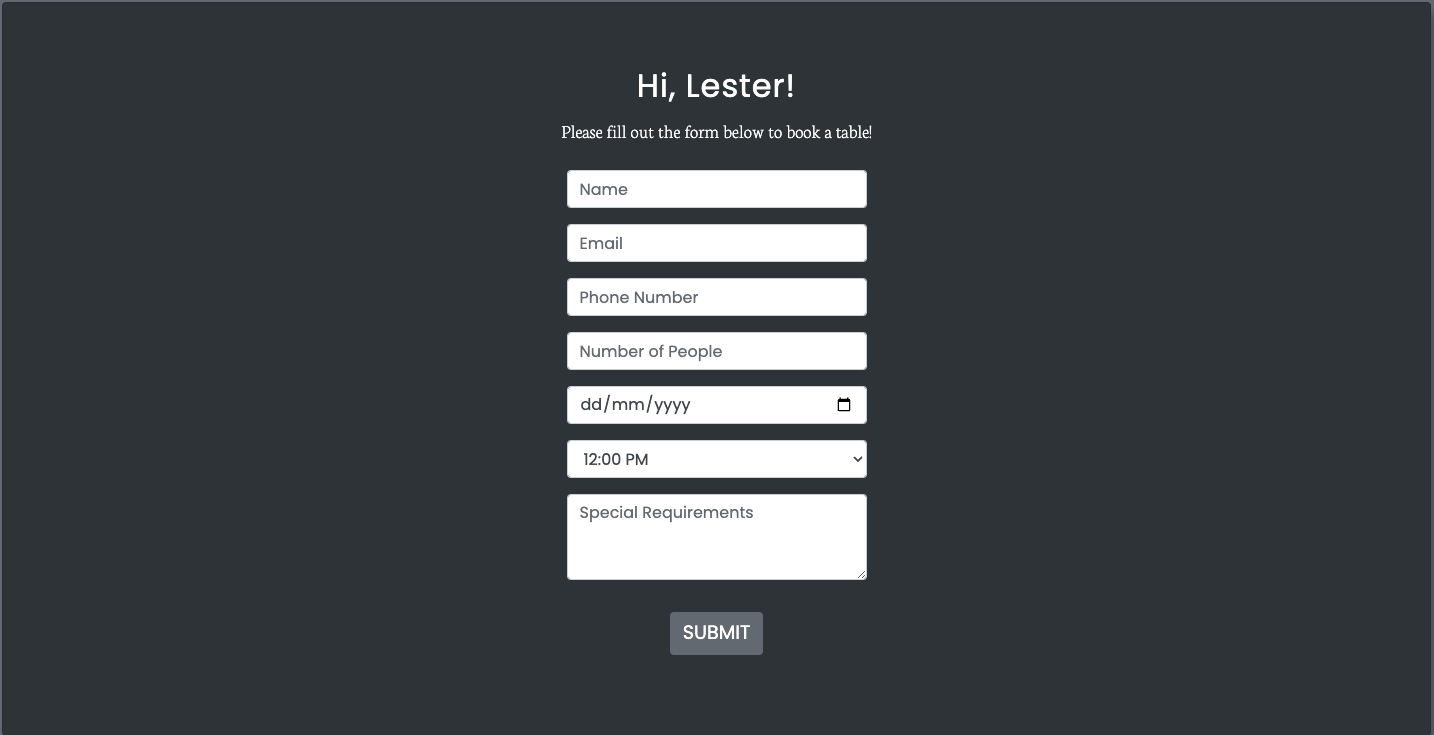
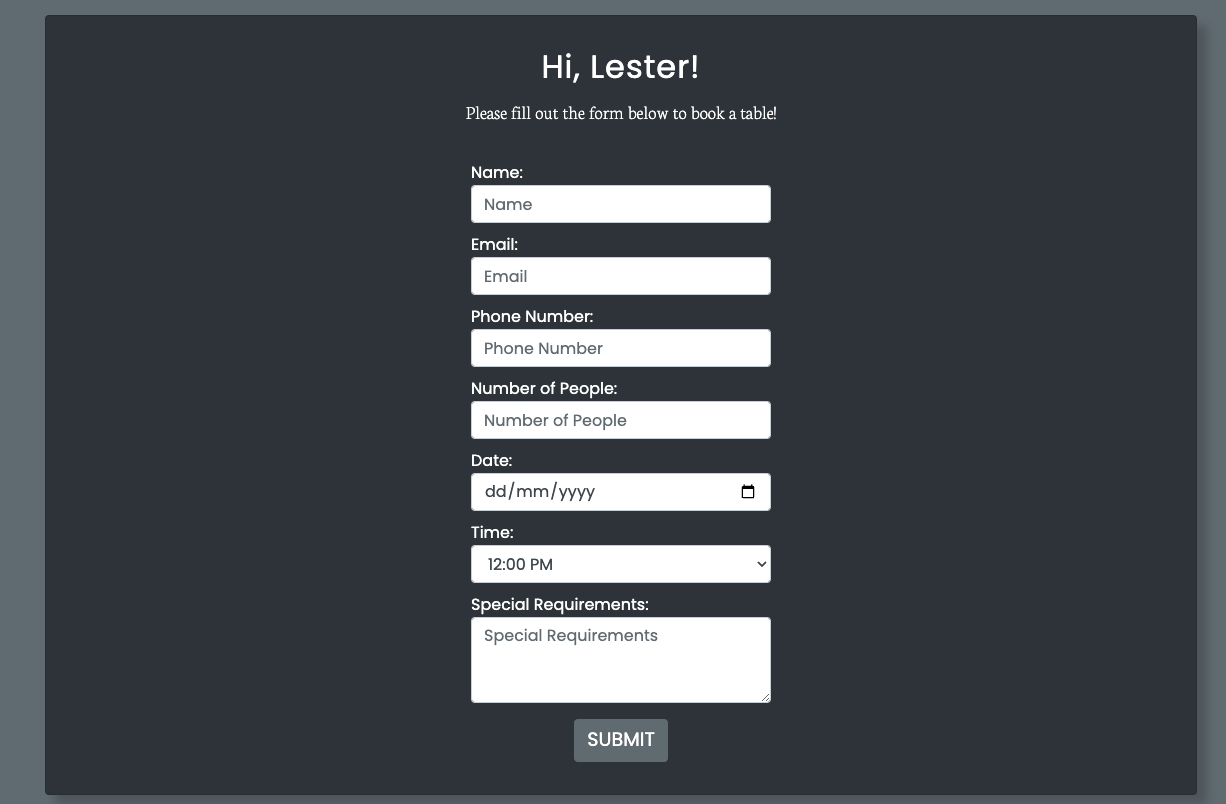
docs - updated images and also added screenshots of mobile view

Changed region(s): [[0.3719, 0.0599, 0.6509, 0.9578], [0.0, 0.0, 1.0, 1.0]]

diff --git a/README.md b/README.md
@@ -248,7 +248,13 @@ At the beginning I wanted to implement Poppins as the font as it is easy to read
 
 - The login link can be found on the navbar when clicked it will take you to this page:
 
+__Desktop__
+
 ![login](static/img/documentation/login.png)
+
+__Mobile__
+
+![login-mobile](static/img/documentation/login-mobile.png)
 
 - If the user does not click on the "Remember Me" checkbox when they close the browser they will be automatically logged out. Unfortunately closing the tab will not end the session cookie so it has to be the full browser.
 
@@ -257,21 +263,41 @@ At the beginning I wanted to implement Poppins as the font as it is easy to read
 
 - If the user does not have an account they can make one using this page:
 
+__Desktop__
+
 ![signup](static/img/documentation/signup.png)
+
+__Mobile__
+
+![signup-mobile](static/img/documentation/signup-mobile.png)
+
 
 &nbsp;  
 #### __Logout Page__
 
 - When the user wants to end their session they can do this from the navbar in the drop down and click logout and it will take you to this page:
 
+__Desktop__
+
 ![logout](static/img/documentation/logout.png)
+
+__Mobile__
+
+![logout-mobile](static/img/documentation/logout-mobile.png)
+
 
 &nbsp;  
 #### __Forgot Password__
 
 - If the user forgets their password they can fill this form to be able to change their password.
 
+__Desktop__
+
 ![forgot-password](static/img/documentation/forgot-password.png)
+
+__Mobile__
+
+![forgot-password-mobile](static/img/documentation/forgot-password-mobile.png)
 
 &nbsp;  
 #### __Password Reset Email__
@@ -282,14 +308,26 @@ At the beginning I wanted to implement Poppins as the font as it is easy to read
 
 - If the link has already been used, this will be shown instead:
 
+__Desktop__
+
 ![bad-token](static/img/documentation/bad-token.png)
+
+__Mobile__
+
+![bad-token-mobile](static/img/documentation/bad-token-mobile.png)
 
 &nbsp;  
 #### __Change Password__
 
 - If the link has not been used yet, the user can change their password from this page:
 
+__Desktop__
+
 ![change-password](static/img/documentation/change-password.png)
+
+__Mobile__
+
+![change-password-mobile](static/img/documentation/change-password-mobile.png)
 
 &nbsp;  
 ### __Review Form__
@@ -300,18 +338,30 @@ At the beginning I wanted to implement Poppins as the font as it is easy to read
 
 #### __User not logged in__:
 
+__Desktop__
+
 ![review-not-logged-in](static/img/documentation/review-not-logged-in.png)
+
+__Mobile__
+
+![review-not-logged-in-mobile](static/img/documentation/review-not-logged-in-mobile.png)
 
 #### __User logged in__:
 
+__Desktop__
+
 ![review-logged-in](static/img/documentation/review-logged-in.png)
+
+__Mobile__
+
+![review-logged-in-mobile](static/img/documentation/review-logged-in-mobile.png)
 
 &nbsp;  
 #### __Review Submitted__:
 
 - When the user succesfully submit a review, they will be redirected to the success page.
 
-![review-success](static/img/documentation/review-logged-in.png)
+![review-success](static/img/documentation/review-success.png)
 
 &nbsp;  
 #### __Draft Review__ (Superuser Only):
@@ -354,7 +404,13 @@ if not request.user.is_superuser:
 @login_required
 ```
 
+__Desktop__
+
 ![booking-form](static/img/documentation/booking-form.png)
+
+__Mobile__
+
+![booking-form-mobile](static/img/documentation/booking-form-mobile.png)
 
 &nbsp;  
 
@@ -366,7 +422,13 @@ if not request.user.is_superuser:
     bookings = BookingForm.objects.filter(user=request.user).order_by("-id")
 ```
 
+__Desktop__
+
 ![booking-list](static/img/documentation/booking-list.png)
+
+__Mobile__
+
+![booking-list-mobile](static/img/documentation/booking-list-mobile.png)
 
 &nbsp;  
 
@@ -396,7 +458,13 @@ if not request.user.is_superuser:
 
 - The user also has the option to delete their booking if they no longer want their appointment. After the user delete their booking they will be redirected back to the "My Bookings" page.
 
+__Desktop__
+
 ![delete-booking](static/img/documentation/delete-booking.png)
+
+__Mobile__
+
+![delete-booking-mobile](static/img/documentation/delete-booking-mobile.png)
 
 &nbsp;  
 
@@ -423,41 +491,7 @@ if not request.user.is_superuser:
 
 ![date-future](static/img/documentation/date-future.png)
 
-- The code below was used to achieve this function it can be found in bookings/forms.py:
-
-```py
-def clean_date(self):
-        selected_date = self.cleaned_data.get("date")
-        selected_time = self.cleaned_data.get("time")
-        max_date = date.today() + timedelta(days=30)
-
-        if selected_date and selected_date > max_date:
-            error_message = "You can only book up to one month in advance, " \
-                            "Please choose another date."
-            raise ValidationError(error_message)
-
-        if selected_date and selected_date < date.today():
-            error_message = "You cannot book in the past, " \
-                            "Please choose a date in the present."
-            raise ValidationError(error_message)
-
-        return selected_date
-
-    def clean_time(self):
-        selected_date = self.cleaned_data.get("date")
-        selected_time = self.cleaned_data.get("time")
-
-        if selected_date and selected_time:
-            existing_booking = BookingForm.objects.filter(
-                date=selected_date, time=selected_time
-            )
-            if existing_booking.exists():
-                error_message = "The timeslot on this day is alreay booked, " \
-                                "Please choose another timeslot."
-                raise ValidationError(error_message)
-
-        return selected_time
-```
+- The code used to achieve this function can be found in [bookings/forms.py](https://github.com/LesterCuasay/Project-4/blob/main/bookings/forms.py) on line 100.
 
 &nbsp;  
 
@@ -472,7 +506,14 @@ if not request.user.is_superuser:
     bookings = BookingForm.objects.all().order_by("-id")
 ```
 
+__Desktop__
+
 ![all-bookings](static/img/documentation/all-bookings.png)
+
+__Mobile__
+
+![all-bookings-mobile](static/img/documentation/all-bookings-mobile.png)
+
 
 - The admin also has functionalities to update or delete users bookings if the user requests for them to do it. The layout of the update and delete pages are the same for superusers except the text changes to "Update the customers booking below!". When the superuser updates or deletes a users booking they will also get an email confirmation about the changes and also instead of being redirected back to the "My Bookings" page the superuser will get redirected back to the "All Bookings" page instead. This was achieved by this code:
 
